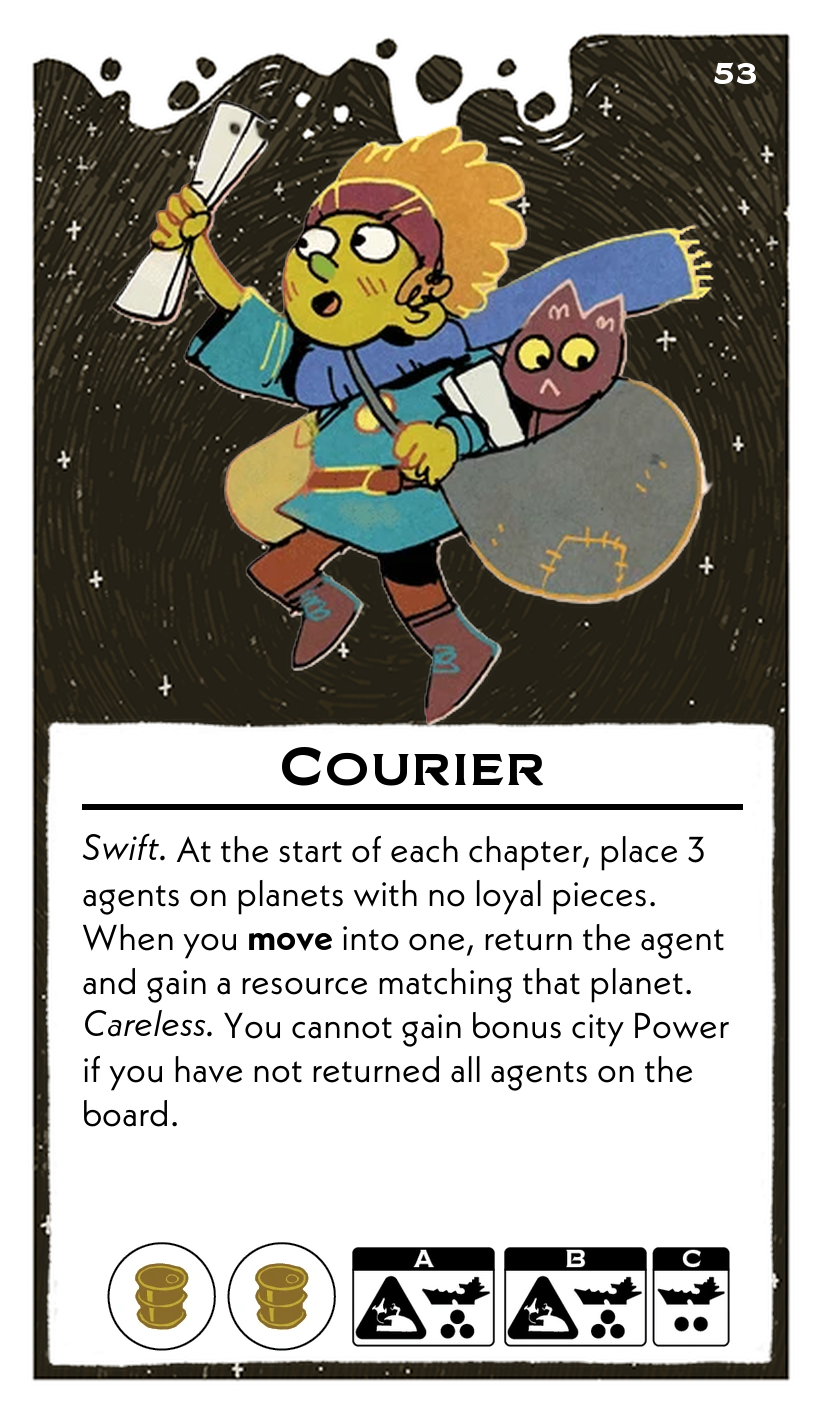
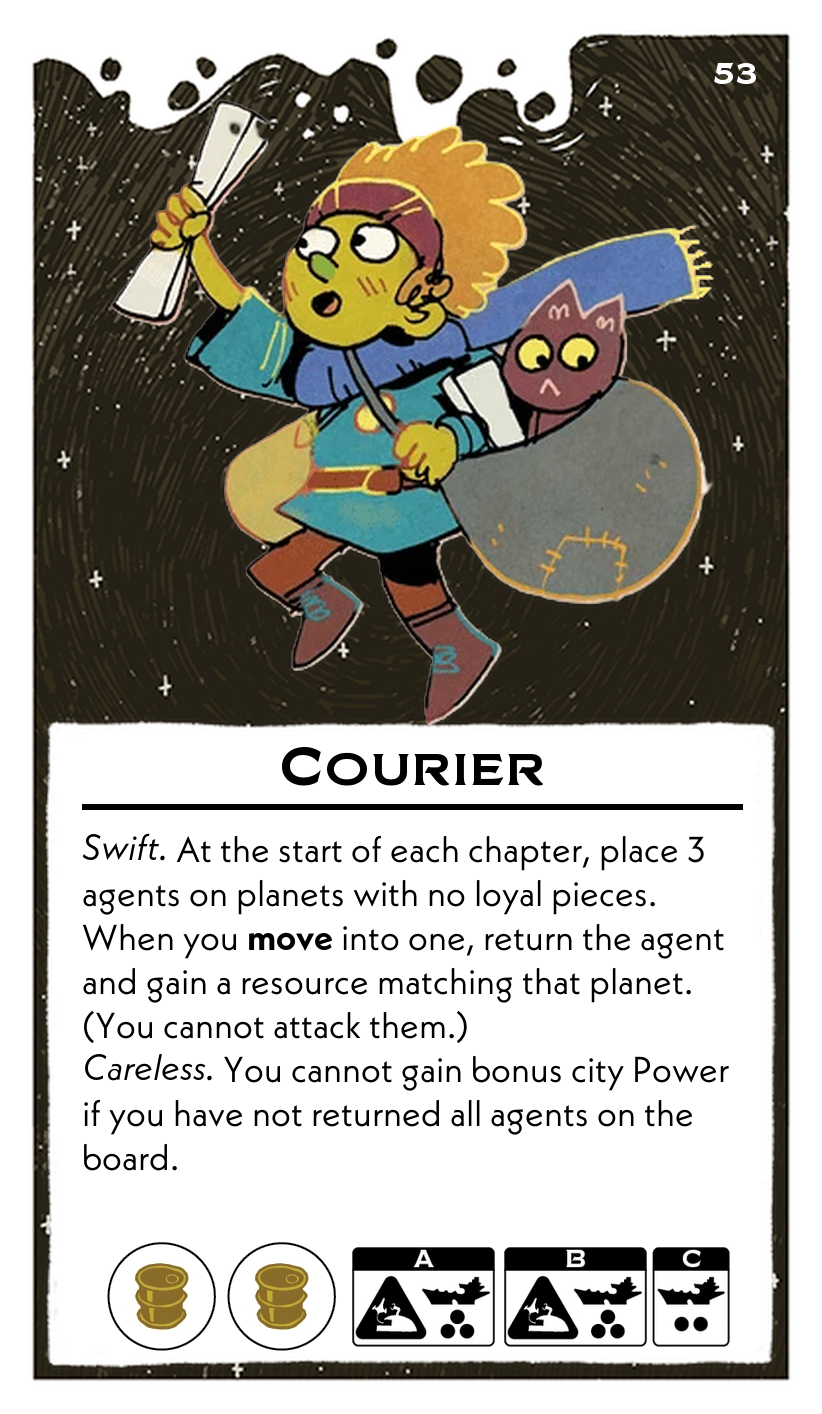
courier

Changed region(s): [[0.0912, 0.7157, 0.882, 0.8402]]

diff --git a/scripts/leadersFormatted.py b/scripts/leadersFormatted.py
@@ -812,7 +812,7 @@ leaders = [
     {
         "name": "Courier",
         "abilities": (
-            "*Swift.* At the start of each chapter, place 3 agents on planets with no loyal pieces. When you **move** into one, return the agent and gain a resource matching that planet.\n"
+            "*Swift.* At the start of each chapter, place 3 agents on planets with no loyal pieces. When you **move** into one, return the agent and gain a resource matching that planet. (You cannot attack them.)\n"
             "*Careless.* You cannot gain bonus city Power if you have not returned all agents on the board."
         ),
         "resources": ["Fuel", "Fuel"],
